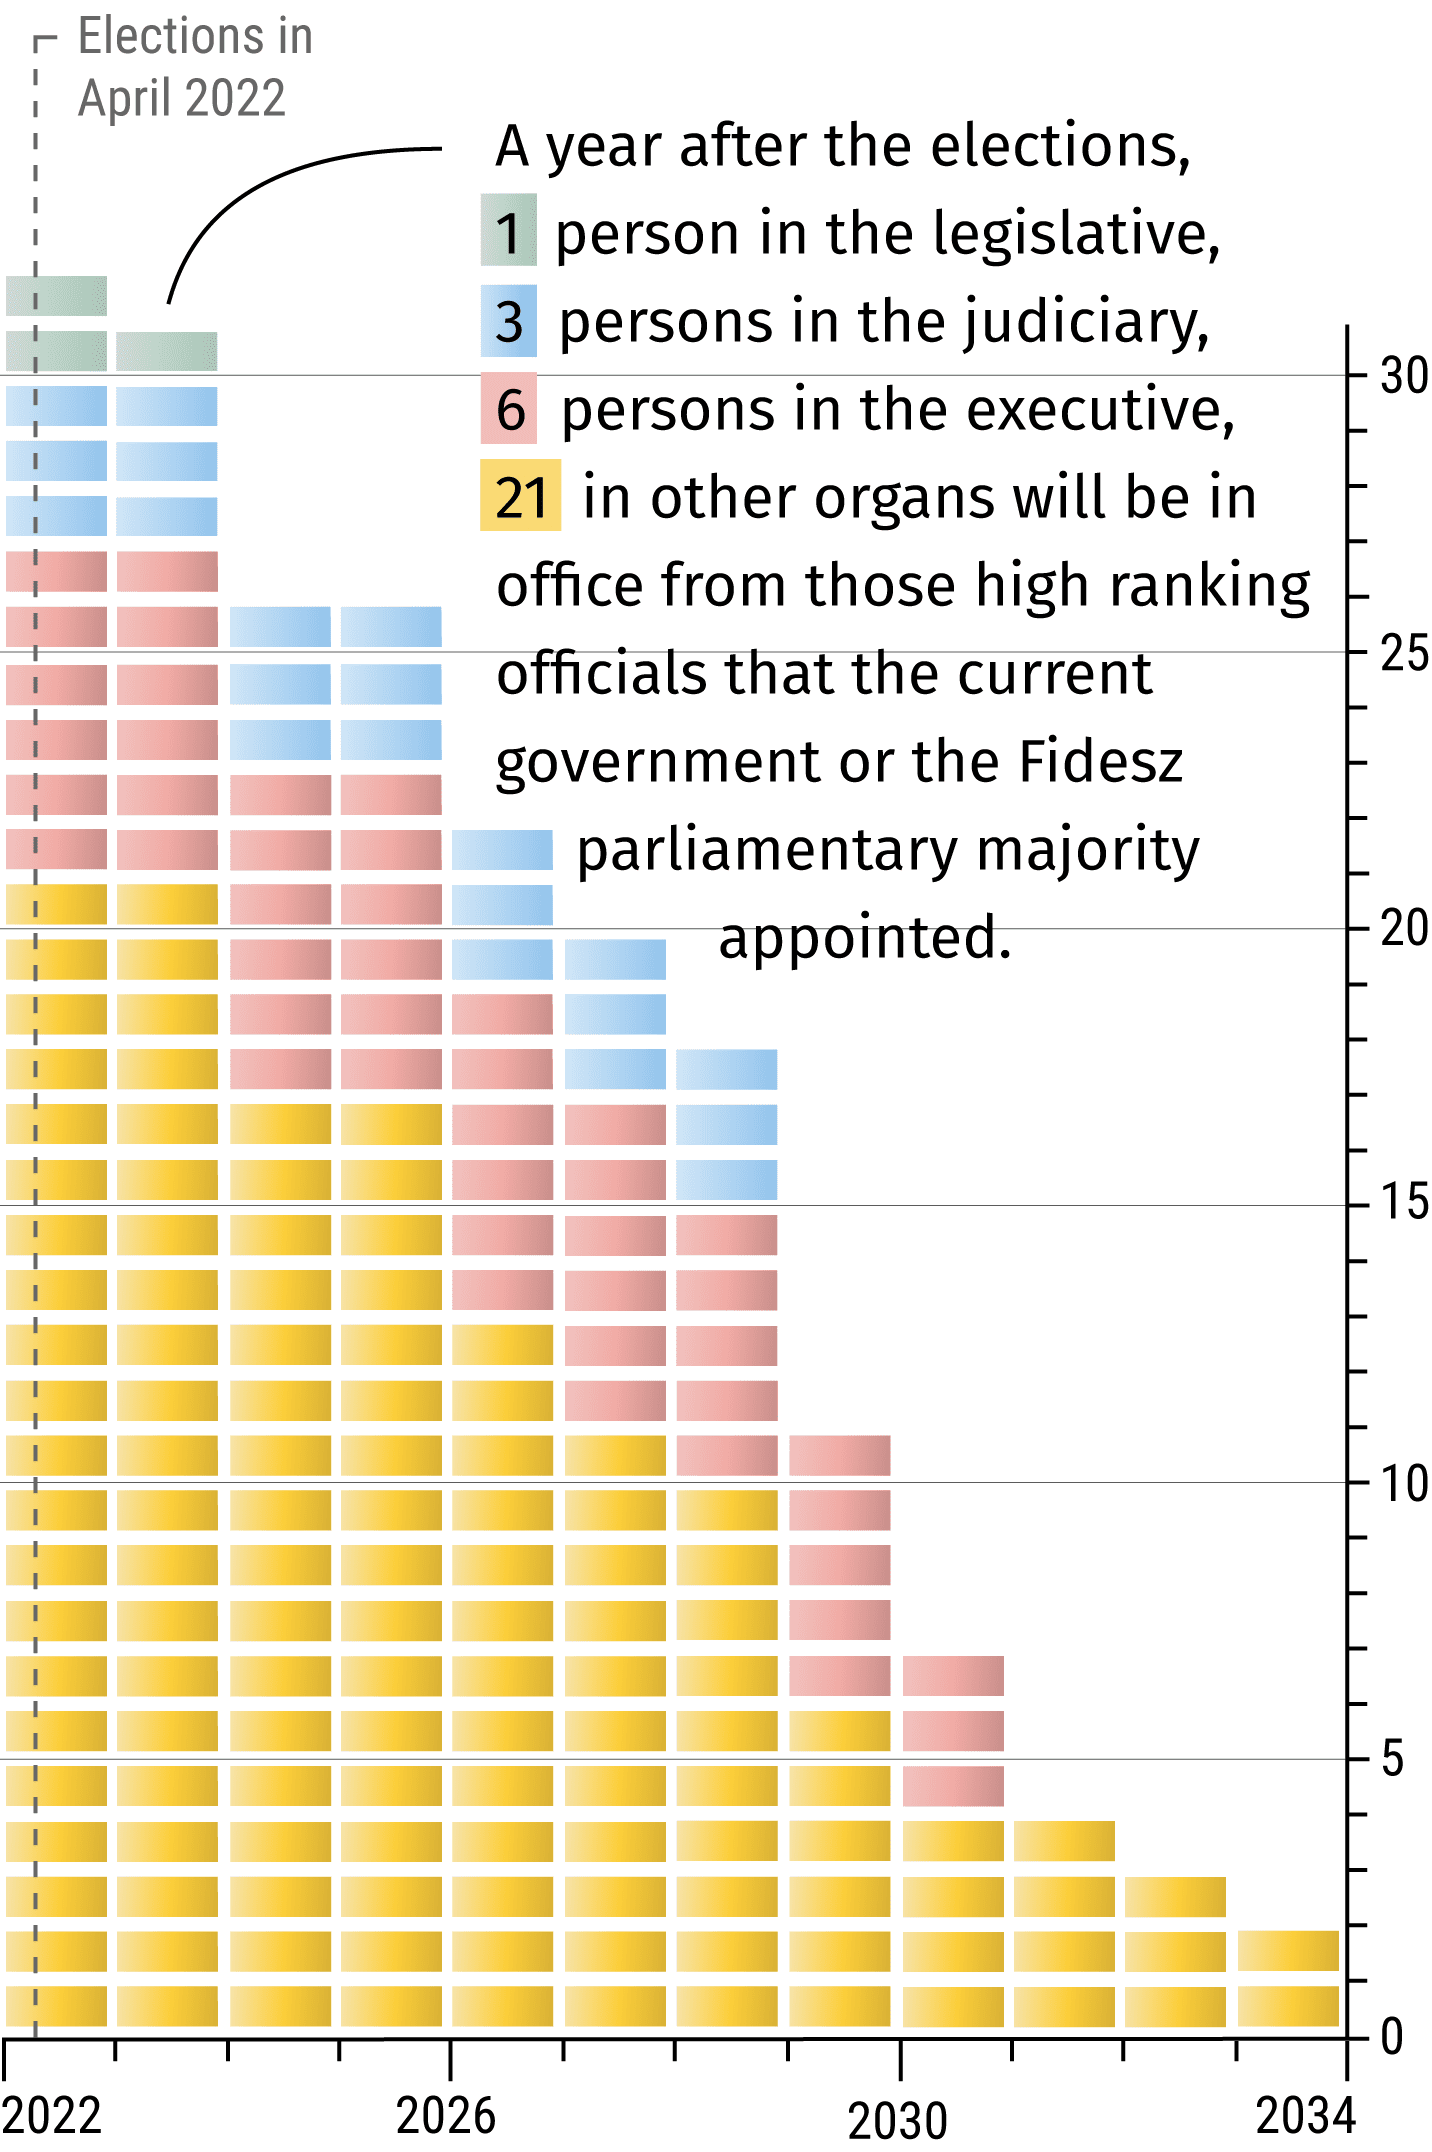
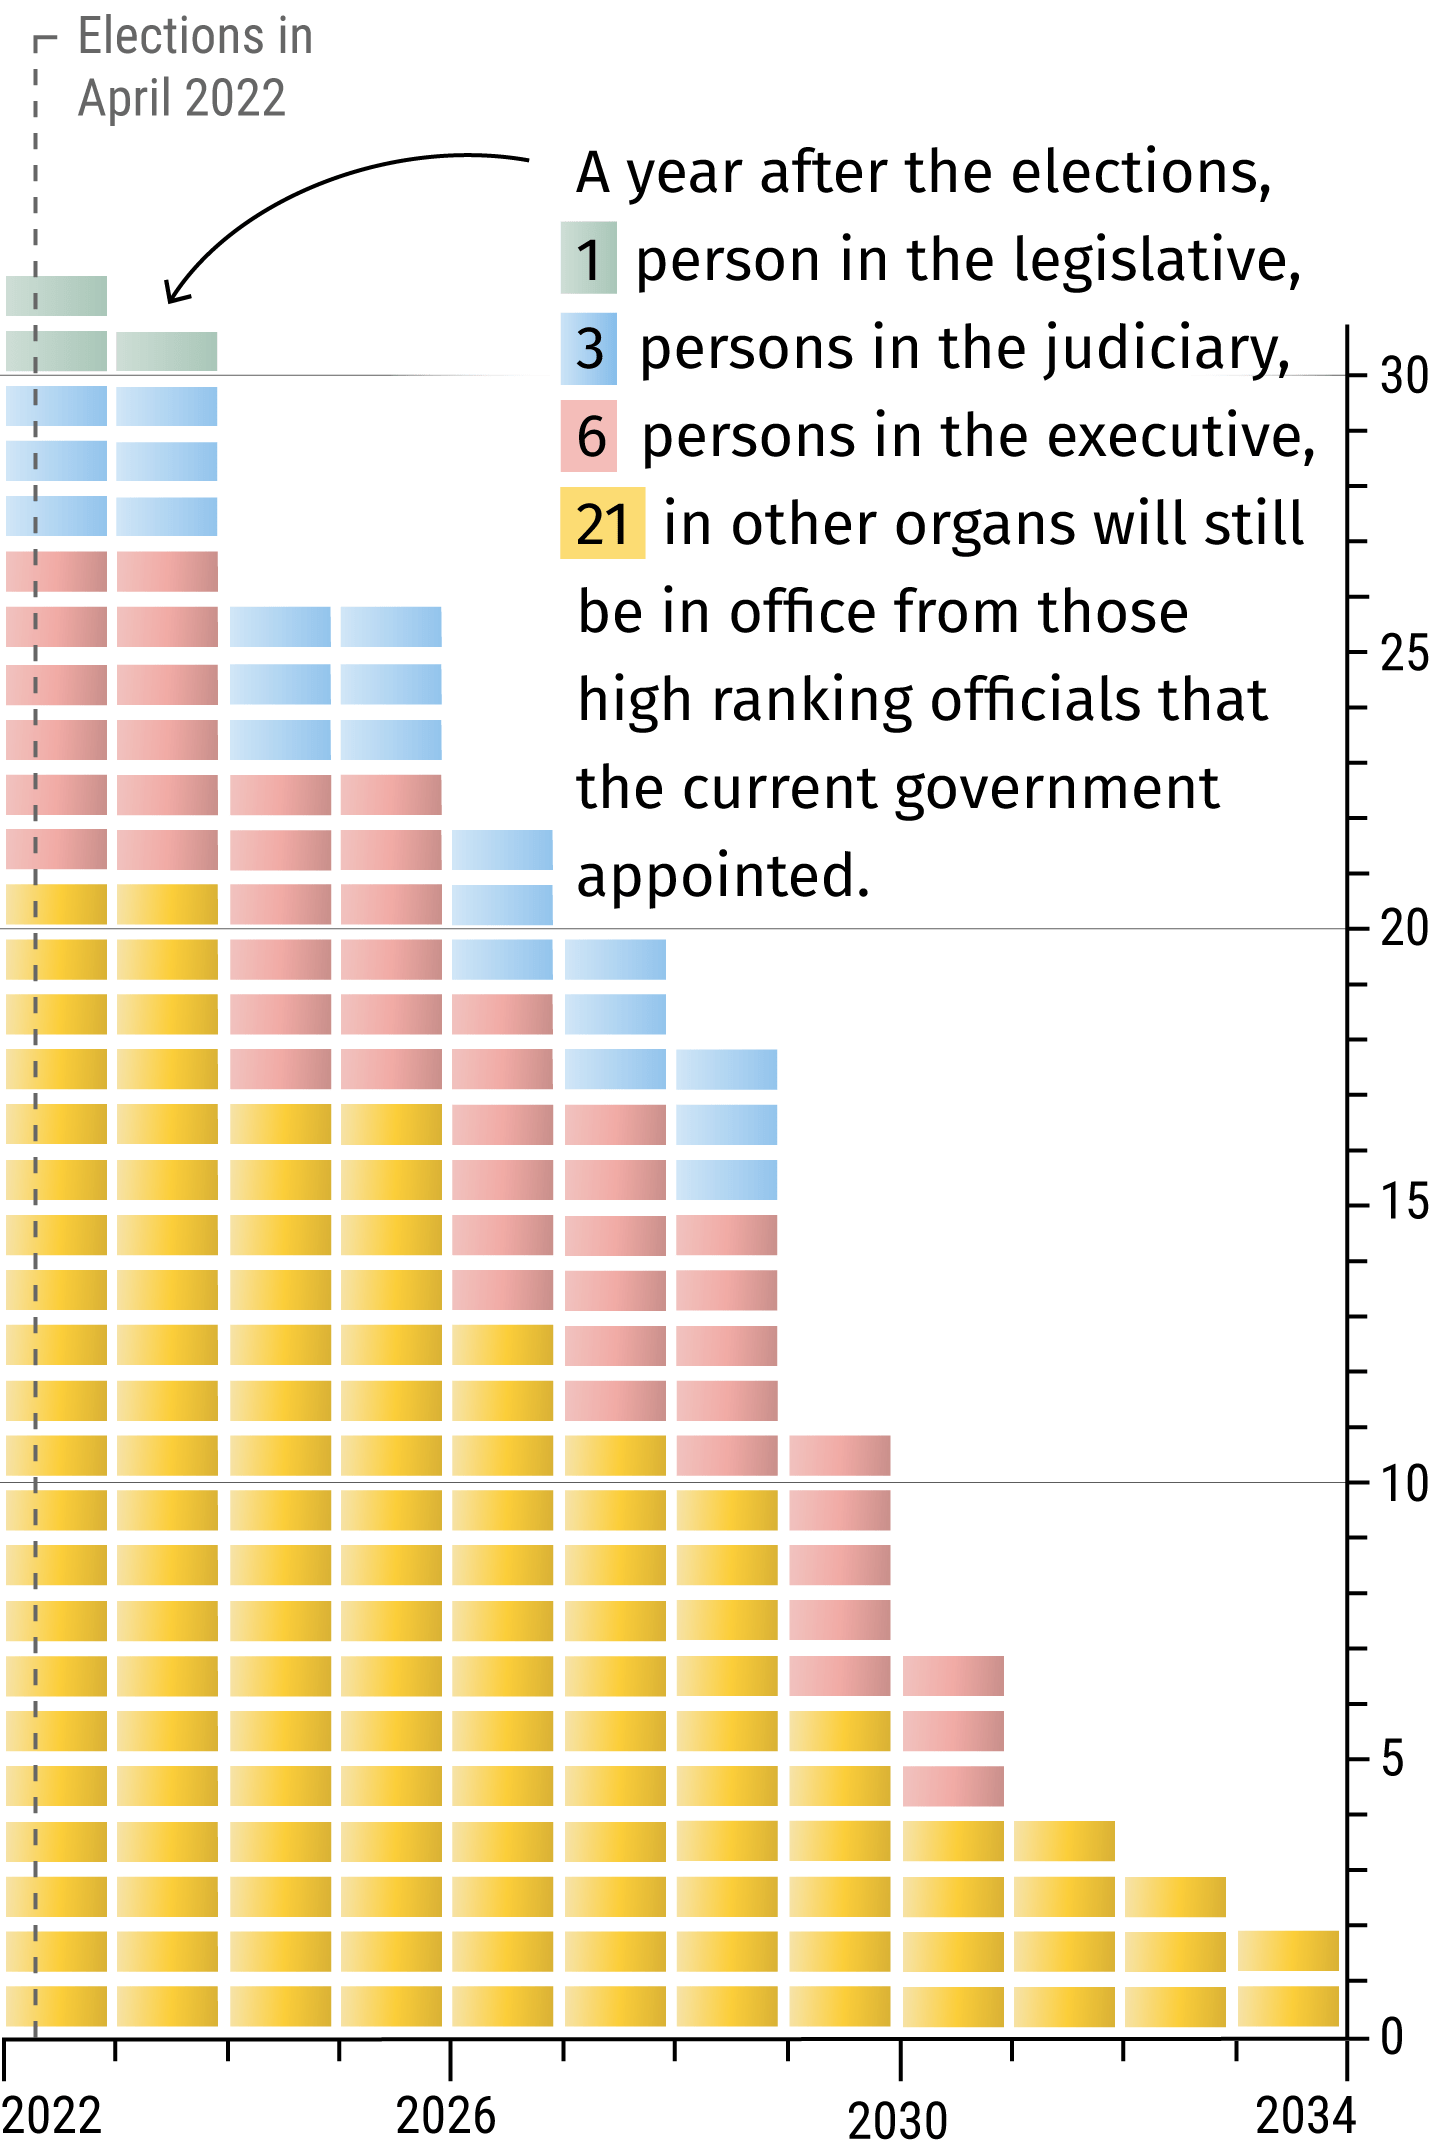
elso javitasi kérések

Changed region(s): [[0.338, 0.0623, 0.9218, 0.467], [0.1844, 0.0623, 0.3073, 0.0934], [0.1229, 0.0934, 0.1844, 0.1557]]

diff --git a/src/pages/index.html b/src/pages/index.html
@@ -2,9 +2,9 @@
 lang: hu
 title: "Következő kormány kezét megkötő szereplők"
 desc: "Egy évvel a 2022-es választások után, a jelenlegi kormány által kinevezett magasrangú tisztviselők közül még ott lesz 1 a törvényhozásban, 3 az igazságszolgáltatásban, 6 a végrehajtásban, 21 az egyéb hivatalokban."
-ogimage: "assets/img/scoial_HUN.png"
+ogimage: "assets/img/SOCIAL_HUN.png"
 permalink: https://cementezettek.helsinki.hu/
-isent1: "2010 óta a Fidesz folyamatosan igyekszik bebetonozni hatalmát. Így a választások után, annak eredményének függetlenül, nehezen elmozdítható közjogi tisztségviselők hada marad pozícióban, akik kizárólag a jelenlegi kormánynak vagy a Fidesz-többségnek köszönhetik mandátumukat."
+isent1: "2010 óta a Fidesz folyamatosan igyekszik bebetonozni hatalmát. Így a választások után, annak eredményétől függetlenül, nehezen elmozdítható közjogi tisztségviselők hada marad pozícióban, akik kizárólag a jelenlegi kormánynak vagy a Fidesz-többségnek köszönhetik mandátumukat."
 isent2: "Könnyen lehet, hogy kormányváltás esetén ezek a személyek a pozíciójukhoz kapcsolt formális és informális eszközeikkel akadályozni fogják az új kormányt. Az államapparátus minden szegletében találunk ilyen tisztviselőket:"
 ---
 <div id="start" class="pagewrap novpad afterbanner" data-magellan-target="start">
@@ -27,9 +27,9 @@ isent2: "Könnyen lehet, hogy kormányváltás esetén ezek a személyek a pozí
 
     {{> chapter ds=hundata id='igazsagszolgaltatas' title='Igazságszolgáltatás' color='cl2' desc='Bár politikától független hatalmi ág, mégis jelentős befolyása van arra. Egyrészt a büntető igazságszolgáltatás körében üldözi a politikai korrupciót, másrészt a közigazgatási bíráskodáson keresztül felülvizsgálhatja és megsemmisítheti a végrehajtó hatalom alá rendelt közigazgatási szervek döntéseit. A választás után <strong>3 vezető tisztségviselő</strong> marad pozícióban.'}}
 
-    {{> chapter ds=hundata id='vegrehajtas' title='Végrehajtás' color='cl3' desc='A végrehajtó hatalom csúcsszerve a Kormány, azonban az utóbbi években számos, hagyományosan a Kormány és a végrehajtó hatalom hatáskörébe tartozó feladatot szerveztek ki a mindenkori Kormánytól jogilag független szervekhez. Ezen szervek vezetőit a Kormány hivatalos úton nem utasíthatja, és csak nagyon korlátozott esetekben mozdíthatja el. A 2022-es választás után <strong>6 vezető tisztségviselő</strong> marad hivatalban.' }}
+    {{> chapter ds=hundata id='vegrehajtas' title='Végrehajtás' color='cl3' desc='A végrehajtó hatalom csúcsszerve a kormány, azonban az utóbbi években számos, hagyományosan a kormány és a végrehajtó hatalom hatáskörébe tartozó feladatot szerveztek ki a mindenkori kormánytól jogilag független szervekhez. Ezen szervek vezetőit a kormány hivatalos úton nem utasíthatja, és csak nagyon korlátozott esetekben mozdíthatja el. A 2022-es választás után <strong>6 vezető tisztségviselő</strong> marad hivatalban.' }}
 
-    {{> chapter ds=hundata id='egyeb' title='Egyéb hivatalok' color='cl4' desc='A magyar alkotmányos rendszerben számos olyan közjogi tisztségviselő és szerv van, amelyek nem sorolhatók be tisztán egyik hatalmi ág alá sem, azonban jelentős szerepük van az állam működőképességének fenntartásában, vagy éppen fékként és ellensúlyként szolgálnak a többi hatalmi ággal szemben. Ha ezen szervek hivatali hatalmukat obstruktív módon gyakorolják, az nemcsak a Kormány mozgásterét szűkíti, hanem alapvetően veszélyeztetheti az állam működését. A választásokat követően <strong>21 tisztviselő</strong> marad pozícióban.' }}
+    {{> chapter ds=hundata id='egyeb' title='Egyéb hivatalok' color='cl4' desc='A magyar alkotmányos rendszerben számos olyan közjogi tisztségviselő és szerv van, amelyek nem sorolhatók be tisztán egyik hatalmi ág alá sem, azonban jelentős szerepük van az állam működőképességének fenntartásában, vagy éppen fékként és ellensúlyként szolgálnak a többi hatalmi ággal szemben. Ha ezen szervek hivatali hatalmukat obstruktív módon gyakorolják, az nemcsak a kormány mozgásterét szűkíti, hanem alapvetően veszélyeztetheti az állam működését. A választásokat követően <strong>21 tisztviselő</strong> marad pozícióban.' }}
 </div>
 
 

diff --git a/src/partials/footer.html b/src/partials/footer.html
@@ -28,10 +28,10 @@
 
         <p>
             {{#ifequal lang "hu"}}
-            Készült a <a target="_blank" href="https://helsinki.hu/">Magyar Helsinki Bizottság</a> megbízásából, a <a target="_blank" href="https://postkodstiftelsen.se/en/">Svenska Postkodstiftelsen</a> támogatásával.<br>Adat: 2021. november 30. &middot;
+            Készült a <a target="_blank" href="https://helsinki.hu/">Magyar Helsinki Bizottság</a> megbízásából, a <a target="_blank" href="https://postkodstiftelsen.se/en/">Svenska Postkodstiftelsen</a> támogatásával.<br>Adat: 2021. december 15. &middot;
             Koncepció és grafika: <a target="_blank" href="https://www.szemann.com/">Szémann Tamás</a> &middot; Sitebuild: <a target="_blank" href="https://hydrogene.hu/">Hydrogene</a>
             {{else}}
-            Made on behalf of the <a target="_blank" href="https://helsinki.hu/en/">Hungarian Helsinki Committee,</a> supported by the <a target="_blank" href="https://postkodstiftelsen.se/en/">Swedish Postcode Foundation.</a><br>Data: November 30, 2021 &middot;
+            Made on behalf of the <a target="_blank" href="https://helsinki.hu/en/">Hungarian Helsinki Committee,</a> supported by the <a target="_blank" href="https://postkodstiftelsen.se/en/">Swedish Postcode Foundation.</a><br>Data: December 15, 2021 &middot;
             Concept and graphics: <a target="_blank" href="https://www.szemann.com/">Tamás Szémann</a> &middot; Sitebuild: <a target="_blank" href="https://hydrogene.hu/">Hydrogene</a>
             {{/ifequal}}
         </p>

diff --git a/src/pages/en/index.html b/src/pages/en/index.html
@@ -2,7 +2,7 @@
 lang: en
 title: "Cemented"
 desc: "A year after the elections, 1 person in the legislative, 3 persons in the judiciary, 6 persons in the executive,  21 in other organs will be in office from those high ranking officials that the current government or the Fidesz parliamentary majority appointed."
-ogimage: "assets/img/scoial_ENG.png"
+ogimage: "assets/img/SOCIAL_ENG.png"
 permalink: https://cementezettek.helsinki.hu/en/
 isent1: "There have been several legislative changes since 2010 aiming at the cementing of the power of Fidesz (the governing party) and at the creation of a parallel state. Many public office holders who are difficult to remove and who had received their mandates exclusively from the current government or Fidesz's parliamentary majority will retain their positions after the elections, regardless of their outcome."
 isent2: "In case of a government change, these persons may well hinder the new government through their varied formal and informal means related to their positions. Such office holders are present in all corners of the state apparatus:"

diff --git a/src/partials/theaxis.html b/src/partials/theaxis.html
@@ -8,7 +8,7 @@
         <li>2030</li>
         <li>2034</li>
     </ul>
-    <svg class="theaxis" viewBox="0 0 600 15" fill="black" xmlns="http://www.w3.org/2000/svg">
+    <svg class="theaxis" viewBox="0 0 600 15" fill="black" width="100%" preserveAspectRatio="none" xmlns="http://www.w3.org/2000/svg">
         <g class='markers'>
             <rect x='0%' y='0' width='1' height='15' /><!-- 2010 -->
             <rect x='4.1666%' y='7' width='1' height='8' /><!-- 2011 -->
@@ -38,5 +38,5 @@
         </g>
         <rect x='0%' y='100%' width='100%' height='1' transform="translate(0, -1)" />
     </svg>
-    <p>{{#ifequal lang "hu"}}Választások 2022. áprilisában{{else}}Elections in April 2022{{/ifequal}}</p>
+    <p>{{#ifequal lang "hu"}}Választások 2022 áprilisában{{else}}Elections in April 2022{{/ifequal}}</p>
 </div>
